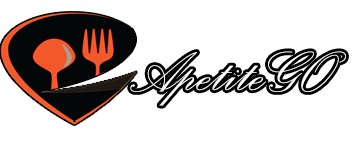
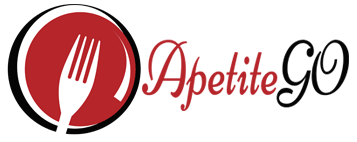
Add files via upload

diff --git a/www/css/app.css b/www/css/app.css
@@ -18,7 +18,7 @@ padding:8px;
 .orange-header
 {
 max-width:100%;
-background:#f75d34;
+background:#b3272e;
 color:#fff;
 padding-top:10px;
 padding-bottom:15px;
@@ -36,7 +36,7 @@ margin:auto;
 max-width:70%;
 }
 .navigation-bar{
-background:#f75d34;
+background:#b3272e;
 color:#fff;
 border:none;
 }
@@ -638,7 +638,7 @@ font-size:14px;
 
 #scroller-pts-details span
 {
-color:#f75d34;
+color:#b3272e;
 }
 
 .profile-pic-wrap{
@@ -729,7 +729,7 @@ display:none;
   border-top: 1.1em solid rgba(247,93,52, 0.2);
   border-right: 1.1em solid rgba(247,93,52, 0.2);
   border-bottom: 1.1em solid rgba(247,93,52, 0.2);
-  border-left: 1.1em solid #f75d34;
+  border-left: 1.1em solid #b3272e;
   -webkit-transform: translateZ(0);
   -ms-transform: translateZ(0);
   transform: translateZ(0);
@@ -790,7 +790,7 @@ margin-top:20px;
   border-top: 1.1em solid rgba(247,93,52, 0.2);
   border-right: 1.1em solid rgba(247,93,52, 0.2);
   border-bottom: 1.1em solid rgba(247,93,52, 0.2);
-  border-left: 1.1em solid #f75d34;
+  border-left: 1.1em solid #b3272e;
   -webkit-transform: translateZ(0);
   -ms-transform: translateZ(0);
   transform: translateZ(0);
@@ -865,7 +865,7 @@ display:none;
 }
 
 .button.orange-btn{
-background:#f75d34;
+background:#b3272e;
 }
 
 .time-remaining-wrap{
